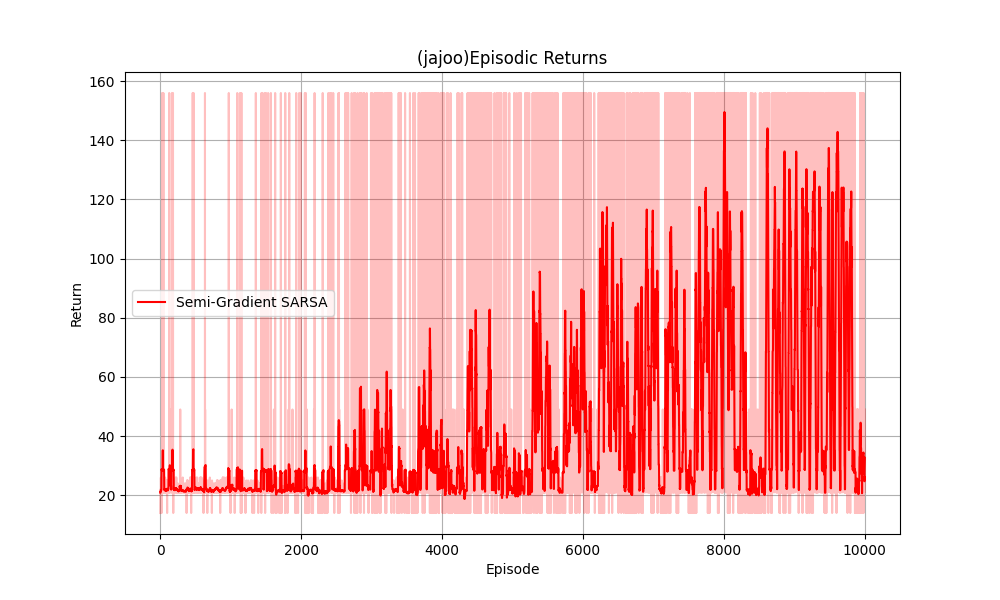
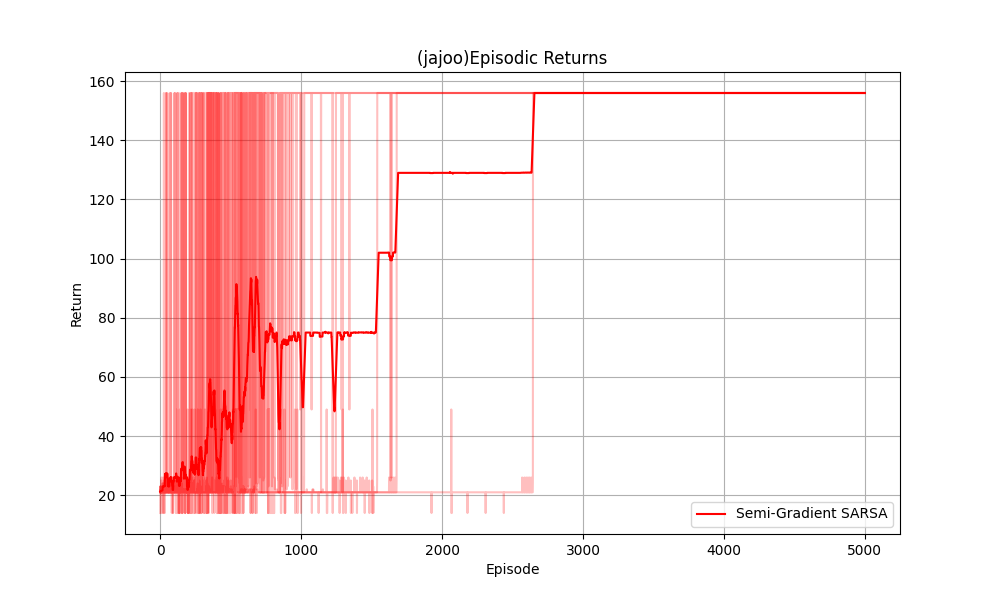
checkpoint - config 3 solved

diff --git a/a2_folder/a2/feature_extraction.py b/a2_folder/a2/feature_extraction.py
@@ -1,5 +1,4 @@
 import numpy as np
-import matplotlib.pyplot as plt
 
 
 def terrible_feature_extractor(obs, action):
@@ -8,67 +7,41 @@ def terrible_feature_extractor(obs, action):
     obs = obs[1:-1, 1:-1 ]
     obstacle, agent = component_extractor(obs)
 
-    age_x, age_y, age_width, age_height = get_bounding_box(agent)
+    age_x, age_y, age_width, age_height = get_coordinates(agent)
 
     try:
         first_obstacle_mask = obstacle.copy()        
         first_obstacle_mask[:, 3*obs.shape[0]//4:] = 0
-        # plt.imshow(first_obstacle_mask)
-        # plt.show()
-        # import ipdb; ipdb.set_trace()
 
         second_obstacle_mask = obstacle.copy()
         second_obstacle_mask[:, :3*obs.shape[0]//4] = 0
-        # plt.imshow(second_obstacle_mask)
-        # plt.show()
-        # import ipdb; ipdb.set_trace()
 
-
-        obs1_x, obs1_y, obs1_width, obs1_height = get_bounding_box(first_obstacle_mask)
-        obs2_x, obs2_y, obs2_width, obs2_height = get_bounding_box(second_obstacle_mask) 
+        obs1_x, obs1_y, obs1_width, obs1_height = get_coordinates(first_obstacle_mask)
+        obs2_x, obs2_y, obs2_width, obs2_height = get_coordinates(second_obstacle_mask) 
 
         jump_at_1 = obs1_x - obs1_height
         jump_at_2 = obs2_x - obs2_height
-        # jump_here_1 = (age_x + age_width) == jump_at_1
-        # jump_here_2 = (age_x + age_width) == jump_at_2
 
         dist_from_floor = obs1_y - age_y
         if age_x + age_width < obs1_x:
             dist_bet_o_a = obs1_x - age_x - age_width
             dist_from_jump = jump_at_1 - (age_x + age_width)
             jump_here = dist_from_jump == 0
-        elif age_x + age_width < obs2_x:
+            obs1, obs2 = True, False
+        else:
             dist_bet_o_a = obs2_x - age_x - age_width
             dist_from_jump = jump_at_2 - (age_x + age_width)
             jump_here = dist_from_jump == 0
-        else:
-            dist_bet_o_a = 0
-            dist_from_jump = 0
-            jump_here = 0
-        
-        # if dist_bet_o1_a == 0:
-        #     dist_from_jump_1 = 0
-        # else:
-        #     dist_from_jump_1 = (obs1_x - obs1_height) - (age_x + age_width)
-        # if dist_bet_o2_a == 0:
-        #     dist_from_jump_2 = 0
-        # else:
-        #     dist_from_jump_2 = (obs2_x - obs2_height) - (age_x + age_width)
+            obs1, obs2 = False, True
+
         distances = np.array([dist_from_floor, dist_bet_o_a, dist_from_jump]) / obs.shape[0] # to prevent weights from blowing up
-        # distances = np.array([dist_from_floor, dist_bet_o1_a, dist_from_jump_1]) / obs.shape[0] # to prevent weights from blowing up
 
-
-        # only providing the jump point is sufficient for the agent to learn
         # incorporating actions
-        # ac_0 = np.array([jump_here_1, not(jump_here_1)]) * (action == 0)
-        # ac_1 = np.array([jump_here_1, not(jump_here_1)]) * (action == 1)   
         ac_0 = np.array([jump_here, not(jump_here)]) * (action == 0)
-        ac_1 = np.array([jump_here, not(jump_here)]) * (action == 1)  
+        ac_1 = np.array([jump_here, not(jump_here)]) * (action == 1)
 
-        # ac_1_0 = np.array([jump_here_1, not(jump_here_1)]) * (action == 0)
-        # ac_1_1 = np.array([jump_here_1, not(jump_here_1)]) * (action == 1)
-        # ac_2_0 = np.array([jump_here_2, not(jump_here_2)]) * (action == 0)
-        # ac_2_1 = np.array([jump_here_2, not(jump_here_2)]) * (action == 1)   
+        # obstacle flag to identify which obstacle is next (first or second)
+        obs = np.array([obs1, obs2])  
 
     except:
         obs_x, obs_y, obs_width, obs_height = get_bounding_box(obstacle)
@@ -80,31 +53,16 @@ def terrible_feature_extractor(obs, action):
         dist_from_jump = (obs_x - obs_height) - (age_x + age_width)
         distances = np.array([dist_from_floor, dist_bet_o_a, dist_from_jump]) / obs.shape[0] # normalizing to prevent weights from blowing up
 
-        # only providing the jump point is sufficient for the agent to learn
         # incorporating actions
         ac_0 = np.array([jump_here, not(jump_here)]) * (action == 0)
-        ac_1 = np.array([jump_here, not(jump_here)]) * (action == 1)   
+        ac_1 = np.array([jump_here, not(jump_here)]) * (action == 1)
 
-    # dist_from_floor = age_y - obs_y
-    # dist_bet_o_a = obs_x - (age_x + age_width)
-    # jump_at = obs_x - obs_height
-    # dist_from_jump = (obs_x - obs_height) - (age_x + age_width)
-    # distances = np.array([dist_from_floor, dist_bet_o_a, dist_from_jump])
+        # since there is only one obstacle
+        obs = np.array([True])
 
-    # obs_x, obs_y, obs_width, obs_height = get_bounding_box(obstacle)
-    # jump_at = obs_x - obs_height
-    # jump_points = (age_x + age_width) == jump_at
-        # jump_points.append(jump_now)
+    features = np.concat((ac_0, ac_1, distances, obs))
 
-    # distances = np.array(distances) / obs.shape[0] # to prevent weights from blowing up
-
-    
-     
-
-    feat = np.concat((ac_0, ac_1, distances))
-    # feat = np.concatenate((ac_1_0, ac_1_1, ac_2_0, ac_2_1, distances))
-    
-    return feat
+    return features
 
 def component_extractor(obs):
     obstacle = obs == 0.5
@@ -115,24 +73,11 @@ def component_extractor(obs):
     agent[floor,] = 0
     return obstacle, agent
 
-def get_bounding_box(mask):
-    """Finds the bounding box (x, y, width, height) of the largest connected component in the mask."""
-    coords = np.column_stack(np.where(mask > 0))
-    if coords.size == 0:
-        return None  # No object found
-    y_min, x_min = coords.min(axis=0)
-    y_max, x_max = coords.max(axis=0)
+def get_coordinates(mask):
+    position = np.column_stack(np.where(mask > 0))
+    if position.size == 0:
+        return None  # no object found
+    y_min, x_min = position.min(axis=0)
+    y_max, x_max = position.max(axis=0)
     return x_min, y_min, (x_max - x_min + 1), (y_max - y_min + 1)
 
-# def get_all_bounding_boxes(mask):
-#     """Finds bounding boxes of all connected components in the mask."""
-#     labeled, num_features = ndimage.label(mask)
-#     bounding_boxes = []
-
-#     for i in range(1, num_features + 1):
-#         component_mask = (labeled == i)
-#         bounding_box = get_bounding_box(component_mask)
-#         if bounding_box:
-#             bounding_boxes.append(bounding_box)
-
-#     return bounding_boxes

diff --git a/a2_folder/a2/semi_gradient_sarsa.py b/a2_folder/a2/semi_gradient_sarsa.py
@@ -12,10 +12,8 @@ def compute_q_values(state_action_features, weights):
     Returns:
         scalar numpy Q-value
     """
-    # Your code here
     q_vals = np.dot(state_action_features, weights)
-    return q_vals # replace this line
-    # end your code
+    return q_vals
 
 def get_action_values(obs, feature_extractor, weights, num_actions):
     """Applies feature_extractor to observation and produces action values
@@ -60,8 +58,6 @@ class SemiGradientSARSA:
         self.state_buffer = []
         self.action_buffer = []
         self.reward_buffer = []
-        # Your code here: introduce any variables you may need
-        # End your code here
 
     def update_q(self, obs, action, reward, next_obs, next_action, terminated):
 
@@ -85,13 +81,7 @@ class SemiGradientSARSA:
                 G = G + (self.discount ** self.n_step) * np.dot(next_fea, self.w)
     
             curr_fea = self.feature_extractor(obs, action)
-
-
             curr_q =  np.dot(curr_fea, self.w )
-
-            if np.any(np.isnan(G)) or np.any(np.isnan(curr_q)) or np.any(np.isnan(curr_fea)) or np.any(np.isnan(self.w)):
-                import ipdb; ipdb.set_trace()
-
 
             self.w += self.step_size * (G - curr_q) * curr_fea
     
@@ -99,12 +89,10 @@ class SemiGradientSARSA:
     def act(self, obs) -> int:
         """Returns an integer 
         """
-        # Your code here
         self.prev_state = obs
         q_vals = get_action_values(obs, self.feature_extractor, self.w, self.num_actions)
         action = self.explorer.select_action(q_vals) # replace this line
         self.prev_action = action
-        # End your code here
         return action
         
 
@@ -114,12 +102,10 @@ class SemiGradientSARSA:
         Returns:
             None
         """
-        # Your code here
-        state = self.prev_state # replace this line
-        action = self.prev_action # replace this line
-        next_state = obs # replace this line
+        state = self.prev_state
+        action = self.prev_action
+        next_state = obs
 
         
-        next_action = self.act(obs) # replace this line
-        self.update_q(state, action, reward, next_state, next_action, terminated) # keep this line
-        # End your code here
+        next_action = self.act(obs)
+        self.update_q(state, action, reward, next_state, next_action, terminated)

diff --git a/a2_folder/a2/train_jumping_task.py b/a2_folder/a2/train_jumping_task.py
@@ -92,8 +92,8 @@ def get_env(config_num, render=False):
 if __name__ == '__main__':
     parser = argparse.ArgumentParser()
     parser.add_argument("--config", help="Which environment", type=int, choices=[1,2,3], default=1)
-    parser.add_argument("--num-training-episodes", help="How many episodes you want to train your agent", default=10000, type=int) #default 5000
-    parser.add_argument("--num-seeds", help="How many episodes you want to train your agent", default=1, type=int)
+    parser.add_argument("--num-training-episodes", help="How many episodes you want to train your agent", default=5000, type=int) #default 5000
+    parser.add_argument("--num-seeds", help="How many episodes you want to train your agent", default=5, type=int)
     parser.add_argument("--render", action='store_true')
     parser.add_argument("--seed", type=int, default=1)
     args = parser.parse_args()
@@ -115,10 +115,6 @@ if __name__ == '__main__':
     for seed in range(args.num_seeds):
         
         explorer = epsilon_greedy_explorers.ConstantEpsilonGreedyExploration(initial_epsilon, num_actions, min_epsilon, decay_rate)
-
-        # explorer = epsilon_greedy_explorers.ConstantEpsilonGreedyExploration(epsilon, num_actions)
-        # import ipdb; ipdb.set_trace()
-        # epsilon *= 1/max(1, int(np.sum(sarsa_episode_success_list[-1:][-5:]))) #max(1, sum(sarsa_episode_success_list[-1][-5:]))
 
         agent = semi_gradient_sarsa.SemiGradientSARSA(num_features, num_actions, feature_extractor, step_size = 0.03, explorer = explorer, discount = 0.99, initial_weight_value = 10.0, n_step = 7) # initial weight was 10. default
         episode_returns_sarsa = agent_environment.agent_environment_episode_loop(agent, env, args.num_training_episodes)

diff --git a/a2_folder/a2/epsilon_greedy_explorers.py b/a2_folder/a2/epsilon_greedy_explorers.py
@@ -34,13 +34,12 @@ class ConstantEpsilonGreedyExploration:
     def __init__(self, epsilon, num_actions, min_epsilon, decay_rate):
         self.epsilon = epsilon
         self.num_actions = num_actions
-        # CHANGED TO DECREASE EPSILON
+        # added to decay epsilon
         self.min_epsilon = min_epsilon
         self.decay_rate = decay_rate
 
     def select_action(self, action_values) -> int:
         max_actions = np.where(action_values == np.max(action_values))[0]
-        # if len(max_actions) == 0: import ipdb;ipdb.set_trace()
         action_probs = compute_epsilon_greedy_action_probs(action_values, self.epsilon)
         return np.random.choice(len(action_probs), p=action_probs)
     

diff --git a/a2_folder/a2/agent_environment.py b/a2_folder/a2/agent_environment.py
@@ -15,9 +15,8 @@ def agent_environment_episode_loop(agent, env, num_episodes):
         episode_returns.append(episode_return)
         agent.prev_state = None
         agent.prev_action = None
-        ### TODO: remove 
+        # epsilon deacay
         agent.explorer.decay_epsilon()
-        print(f'episode: {episode}, episode_return: {episode_returns[-1:]}')
     return episode_returns
 
 def agent_environment_step_loop(agent, env, num_steps):
